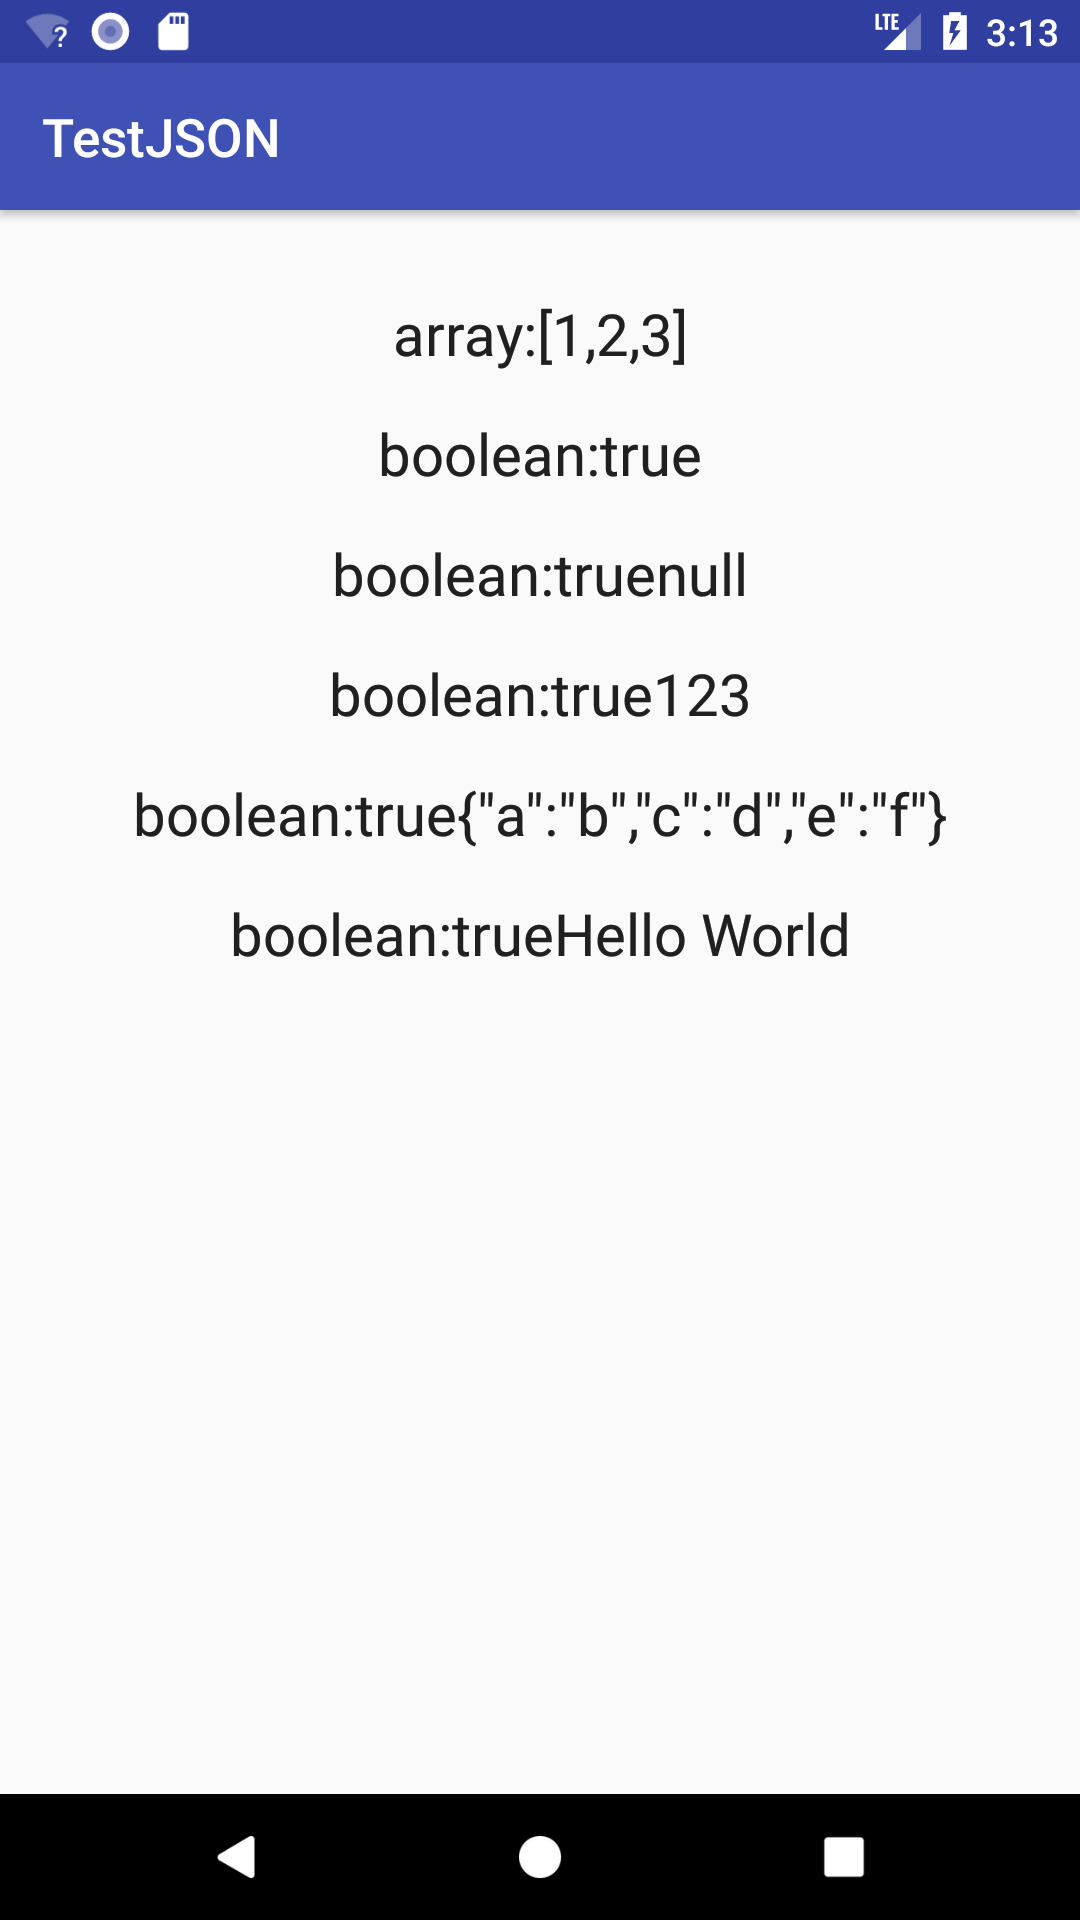
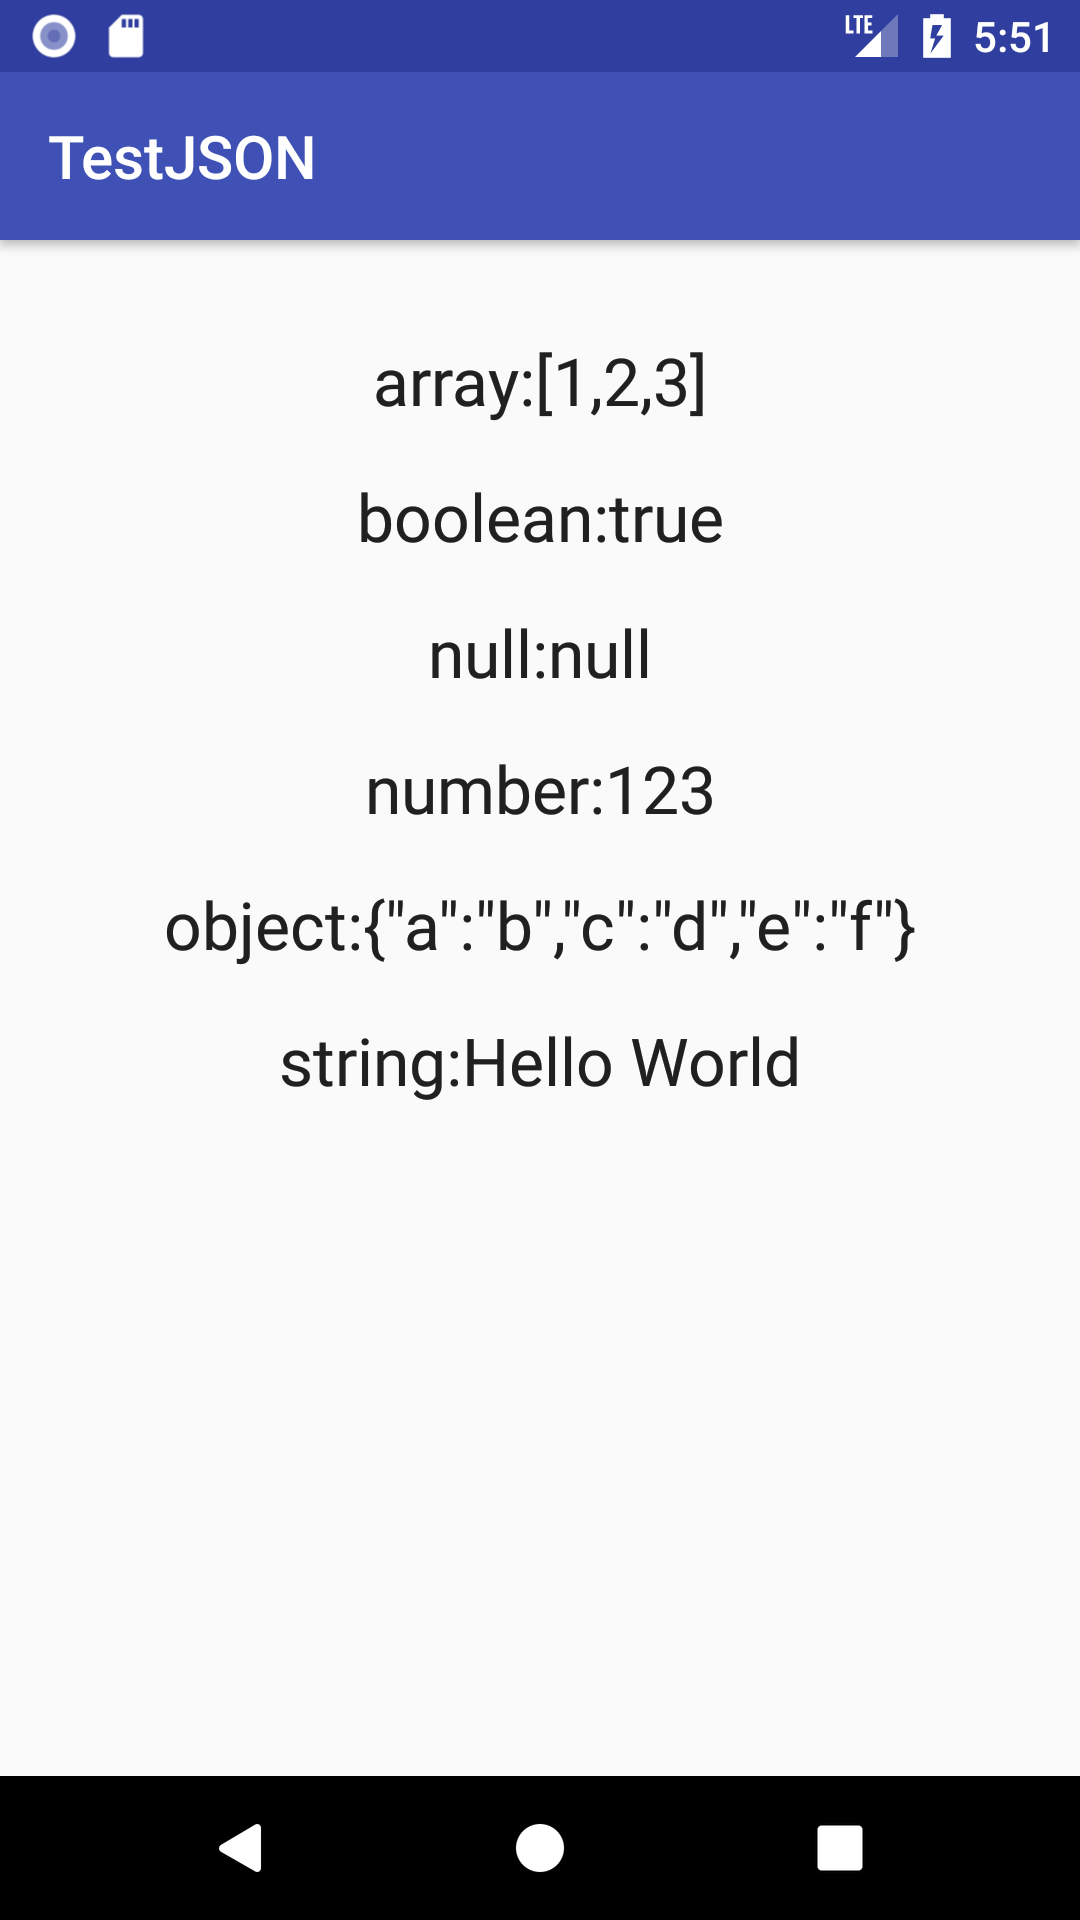
debug

diff --git a/_posts/2017-12-22-Android-JSON.md b/_posts/2017-12-22-Android-JSON.md
@@ -448,10 +448,10 @@ public class MainActivity extends AppCompatActivity {
     private void setViewText(JSONArray array, boolean bool, String snull, int num, JSONObject item, String s) {
         mTvArray.setText(mTvArray.getText() + array.toString());
         mTvBool.setText(mTvBool.getText() + String.valueOf(bool));
-        mTvNull.setText(mTvBool.getText() + String.valueOf(snull));
-        mTvNumber.setText(mTvBool.getText() + String.valueOf(num));
-        mTvObject.setText(mTvBool.getText() + item.toString());
-        mTvString.setText(mTvBool.getText() + s);
+        mTvNull.setText(mTvNull.getText() + String.valueOf(snull));
+        mTvNumber.setText(mTvNumber.getText() + String.valueOf(num));
+        mTvObject.setText(mTvObject.getText() + item.toString());
+        mTvString.setText(mTvString.getText() + s);
     }
 
     private void findViews() {
